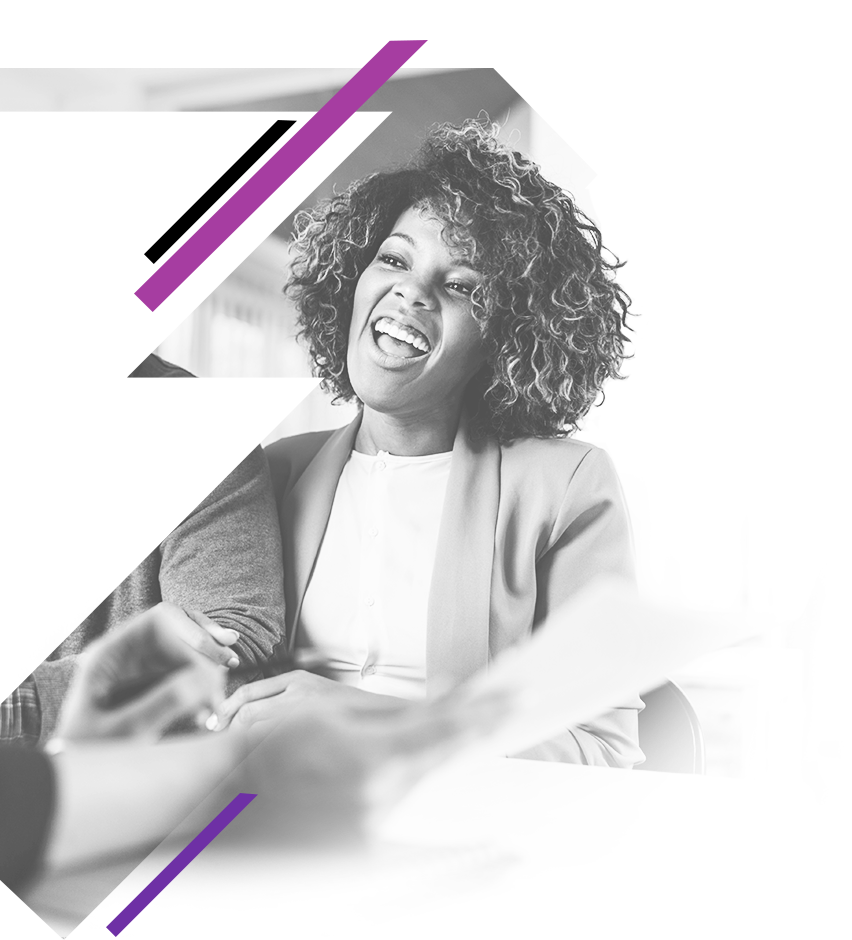
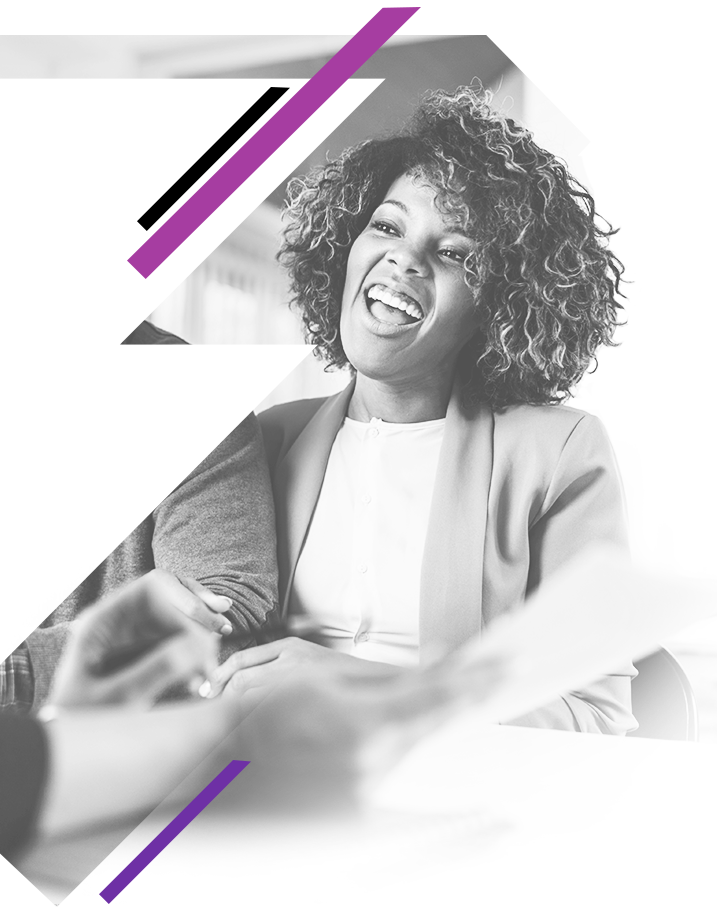
modified verify page

diff --git a/src/app/pages/verify/verify.component.css b/src/app/pages/verify/verify.component.css
@@ -30,9 +30,7 @@ button:focus{
 .bold{
     font-weight: 600;
 }
-#center-logo{
-    width:120px
-}
+
 #otpBox{
     width:100%;
     margin: 0 auto;
@@ -120,6 +118,9 @@ button:focus{
 #mobile-logo{
     width: 40px;
 }
+#center-logo{
+    width:120px;
+}
 .btn{
     border-radius: 0;
     text-transform: uppercase;
@@ -140,8 +141,9 @@ button:focus{
     font-size: 18px;
     background-color: #c1c1c1;
     text-transform: uppercase;
-    margin-right: 4px;
+    margin-right: 8px;
     color:white;
+    padding: 0.375rem 2rem;
 }
 .stepperImage{
     width:50%;
@@ -162,15 +164,7 @@ input{
     text-align: center;
     font-size: 12px;
 }
-select{
-    text-transform: uppercase;
-    font-weight: 600;
-    text-align: center;
-    width: 100%;
-    border:none;
-    border-bottom: 1px solid gray;
-    color: black;
-}
+
 input:focus{
     background-color: transparent;
     border:none;
@@ -188,14 +182,14 @@ input::placeholder {
     font-size: 12px;
 }
 #otpBox{
-    width:100%;
+    width:90%;
     margin: 0 auto;
     padding-bottom: 40px;
-    padding: 2rem 0;
+    padding: 1rem 0;
 }
 #center-logo{
     width:100px;
-    margin-bottom:18px;
+    margin:18px auto;
 }
 #footer{
     width: 100%;
@@ -214,39 +208,7 @@ input::placeholder {
 .uploadIcon{
     width:80%;
 }
-::ng-deep .mat-step-icon{
-    border-radius: 0 !important;
-    transform: rotate(45deg);
-    width:20px !important;
-    height:20px !important;
-}
 
-::ng-deep .mat-horizontal-stepper-header {
-    width: 20px;
-    padding: 0 20px !important;
-}
-::ng-deep .ng-select .ng-select-container{
-    border:0 !important;
-    border-bottom: 1px solid gray !important;
-    justify-content: center;
-    border-radius: 0;
-}
-::ng-deep .ng-select .ng-select-container .ng-value-container{
-    justify-content: center;
-}
-::ng-deep .ng-select.ng-select-single .ng-select-container{
-    min-height: 30px;
-    height: 30px;
-}
-::ng-deep .ng-select .ng-select-container .ng-value-container .ng-placeholder{
-    color:black;
-    font-weight: 500;
-    font-size: 1rem;
-    font-size: 12px;
-}
-::ng-deep .mat-step-header .mat-step-icon-selected, .mat-step-header .mat-step-icon-state-done, .mat-step-header .mat-step-icon-state-edit{
-    background-color: black;
-}
 #mobile-login-img{
     position: absolute;
     right:20px;
@@ -266,10 +228,6 @@ input::placeholder {
     }
     .form-group{
         margin-bottom: 18px;
-    }
-    ::ng-deep .mat-stepper-horizontal{
-        margin-right: 5rem !important;
-        width:70%;
     }
     .btn-back{
         padding:.25rem 3rem;
@@ -302,6 +260,7 @@ input::placeholder {
     }
     .btn-back{
         margin-right: 6px;
+        padding: 0.375rem 3rem;
     }
  }
 /* XXX-Large devices (larger desktops, 1800px and up) */
@@ -315,11 +274,14 @@ input::placeholder {
     input::placeholder {
         font-size: 18px;
     }
-    ::ng-deep .ng-select .ng-select-container .ng-value-container .ng-placeholder{
-        font-size: 18px;
-    }
     .btn-back{
         margin-right: 8px;
+        padding: 0.375rem 5rem;
+    }
+    #center-logo{
+        width:100px;
+        margin-top:30px;
+        margin-bottom: 50px;
     }
  }
 

diff --git a/src/app/pages/dealer-registration/dealer-registration.component.html b/src/app/pages/dealer-registration/dealer-registration.component.html
@@ -26,16 +26,16 @@
             </div>
         </div>
 
-        <div class="row mt-md-4 mt-xl-4 mt-xxl-5">
+        <div class="row mt-md-4 mt-xl-4 mt-xxl-5 page-margin">
             <div class="col-md-6 ps-0 d-none d-md-block text-center">
-                <img [src]="currentStepperImage" alt="main image" class="img-fluid stepperImage">
+                <img [src]="currentStepperImage" alt="main image" [ngStyle]="{'width': (stepper.selectedIndex ==1 || stepper.selectedIndex ==2) ? '54%' : '50%'}" class="img-fluid stepperImage">
             </div>
             <div class="col-md-6">
                 <mat-stepper [linear]="isLinear" #stepper 
                 linear class="pb-5 pb-md-0 {{ 'last-edited-step-' + stepper.selectedIndex }}"
                     (selectionChange)="onStepChange($event)">
 
-                    <mat-step [stepControl]="regForm1" [editable]="isEditable" completed="true">
+                    <mat-step [stepControl]="regForm1" [editable]="isEditable" [completed]="isCompleted1">
                         <form [formGroup]="regForm1" class="mt-3 mt-md-1">
                             <div class="form-group mt-md-3">
                                 <input type="text" matInput class="form-control" id="exampleFormControlInput1"
@@ -128,7 +128,7 @@
                             </div>
                         </form>
                     </mat-step>
-                    <mat-step [stepControl]="secondFormGroup" [editable]="isEditable" completed="true">
+                    <mat-step [stepControl]="secondFormGroup" [editable]="isEditable" [completed]="isCompleted2">
                         <form [formGroup]="secondFormGroup" class="mb-5 mb-md-0">
                             <div class="form-group d-flex flex-column flex-md-row mt-3">
                                 <div class="col text-center pe-md-3 pb-2 pb-md-0">
@@ -164,7 +164,7 @@
                             </div>
                         </form>
                     </mat-step>
-                    <mat-step [stepControl]="regForm3" [editable]="isEditable" completed="true">
+                    <mat-step [stepControl]="regForm3" [editable]="isEditable" [completed]="isCompleted3">
                         <form [formGroup]="regForm3" class="mt-md-3">
                             <div style="width: 100%;height:100px;background-color: gray;margin-bottom: 16px;">
 

diff --git a/src/app/pages/dealer-registration/dealer-registration.component.ts b/src/app/pages/dealer-registration/dealer-registration.component.ts
@@ -1,6 +1,7 @@
 import { AfterViewInit, Component, OnInit, ViewChild } from '@angular/core';
 import { FormBuilder, FormGroup, Validators } from '@angular/forms';
 import { MatHorizontalStepper } from '@angular/material/stepper';
+import { Router } from '@angular/router';
 import { InitialDataService } from 'src/app/services/initial-data.service';
 
 @Component({
@@ -12,6 +13,9 @@ export class DealerRegistrationComponent implements OnInit, AfterViewInit {
   regForm1: FormGroup;
   regForm3: FormGroup;
   secondFormGroup: FormGroup;
+  isCompleted1:boolean = true;
+  isCompleted2:boolean = true;
+  isCompleted3:boolean = true;
   isEditable = true;
   industries = [];
   countries = [];
@@ -34,7 +38,8 @@ export class DealerRegistrationComponent implements OnInit, AfterViewInit {
   @ViewChild(MatHorizontalStepper) stepper: MatHorizontalStepper;
   constructor(
     private _formBuilder: FormBuilder,
-    private dataService: InitialDataService
+    private dataService: InitialDataService,
+    private router: Router
   ) { }
 
   ngOnInit(): void {
@@ -96,6 +101,6 @@ export class DealerRegistrationComponent implements OnInit, AfterViewInit {
     }
   }
   submit(){
-
+    this.router.navigateByUrl("/verify");
   }
 }

diff --git a/src/app/pages/verify/verify.component.html b/src/app/pages/verify/verify.component.html
@@ -91,7 +91,8 @@
             
             <div class="col-md-12 text-center" id="otpBox">
                 <div>
-                    <img src="assets/images/main-logo.png" id="center-logo" class="img-fluid" alt="main logo">
+                    <img src="assets/images/main-image.png" id="center-logo" class="img-fluid d-block d-md-none" alt="main logo">
+                    <img src="assets/images/main-logo.png" id="center-logo" class="img-fluid d-none d-md-block" alt="main logo">
                 </div>
                 <h5 class="text-uppercase bold">
                     Verify Your Phone Number
@@ -103,7 +104,7 @@
                     veniam
                 </p>
                 <form class="mt-md-3">
-                    <div class="form-group mt-4">
+                    <div class="form-group mt-4 mt-md-5">
                         <input type="text" matInput class="form-control" id="exampleFormControlInput1"
                             placeholder="Enter Code">
                     </div>

diff --git a/src/app/pages/dealer-registration/dealer-registration.component.css b/src/app/pages/dealer-registration/dealer-registration.component.css
@@ -43,8 +43,9 @@ button:focus{
     font-size: 18px;
     background-color: #c1c1c1;
     text-transform: uppercase;
-    margin-right: 4px;
+    margin-right: 8px;
     color:white;
+    padding: 0.375rem 2rem;
 }
 .stepperImage{
     width:50%;
@@ -189,6 +190,7 @@ input::placeholder {
     }
     .btn-back{
         margin-right: 6px;
+        padding: 0.375rem 3rem;
     }
  }
 /* XXX-Large devices (larger desktops, 1800px and up) */
@@ -207,6 +209,10 @@ input::placeholder {
     }
     .btn-back{
         margin-right: 8px;
+        padding: 0.375rem 5rem;
+    }
+    .page-margin{
+        margin-top: 6rem !important;
     }
  }
 
